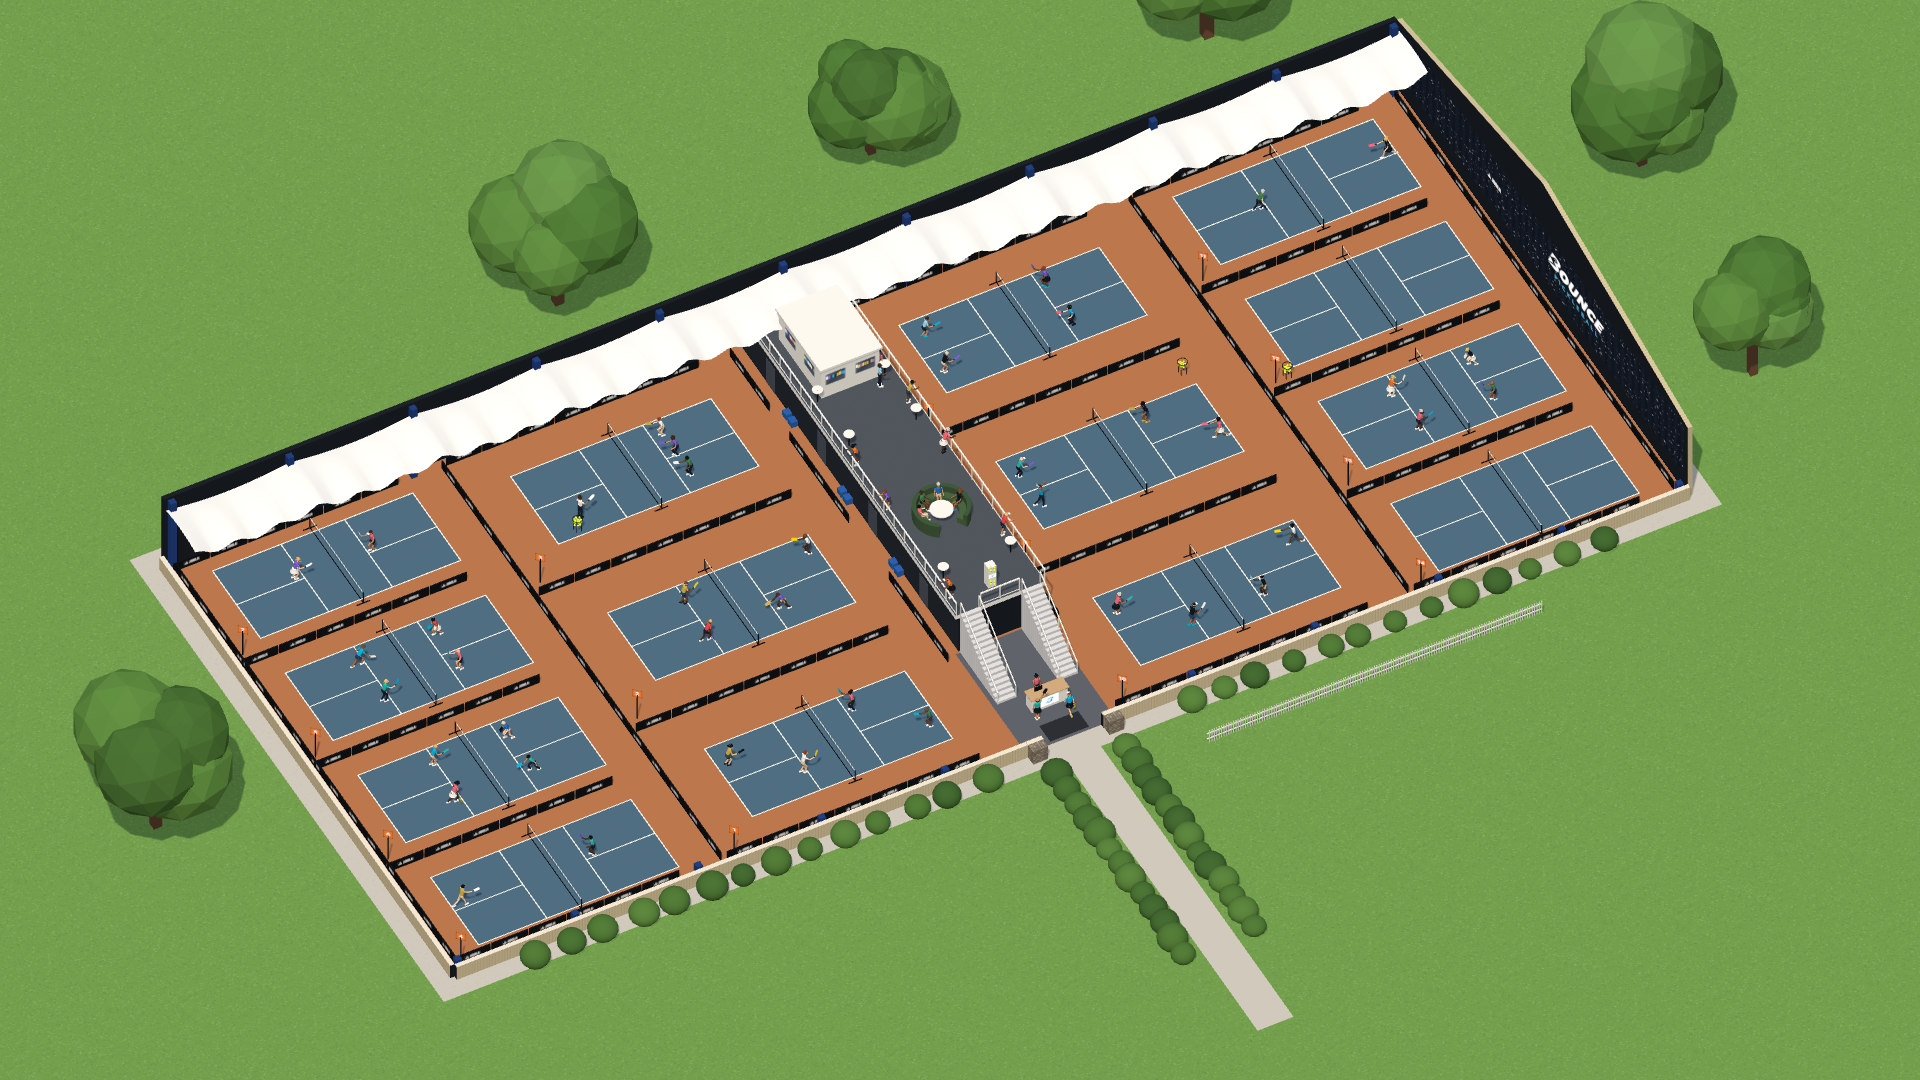
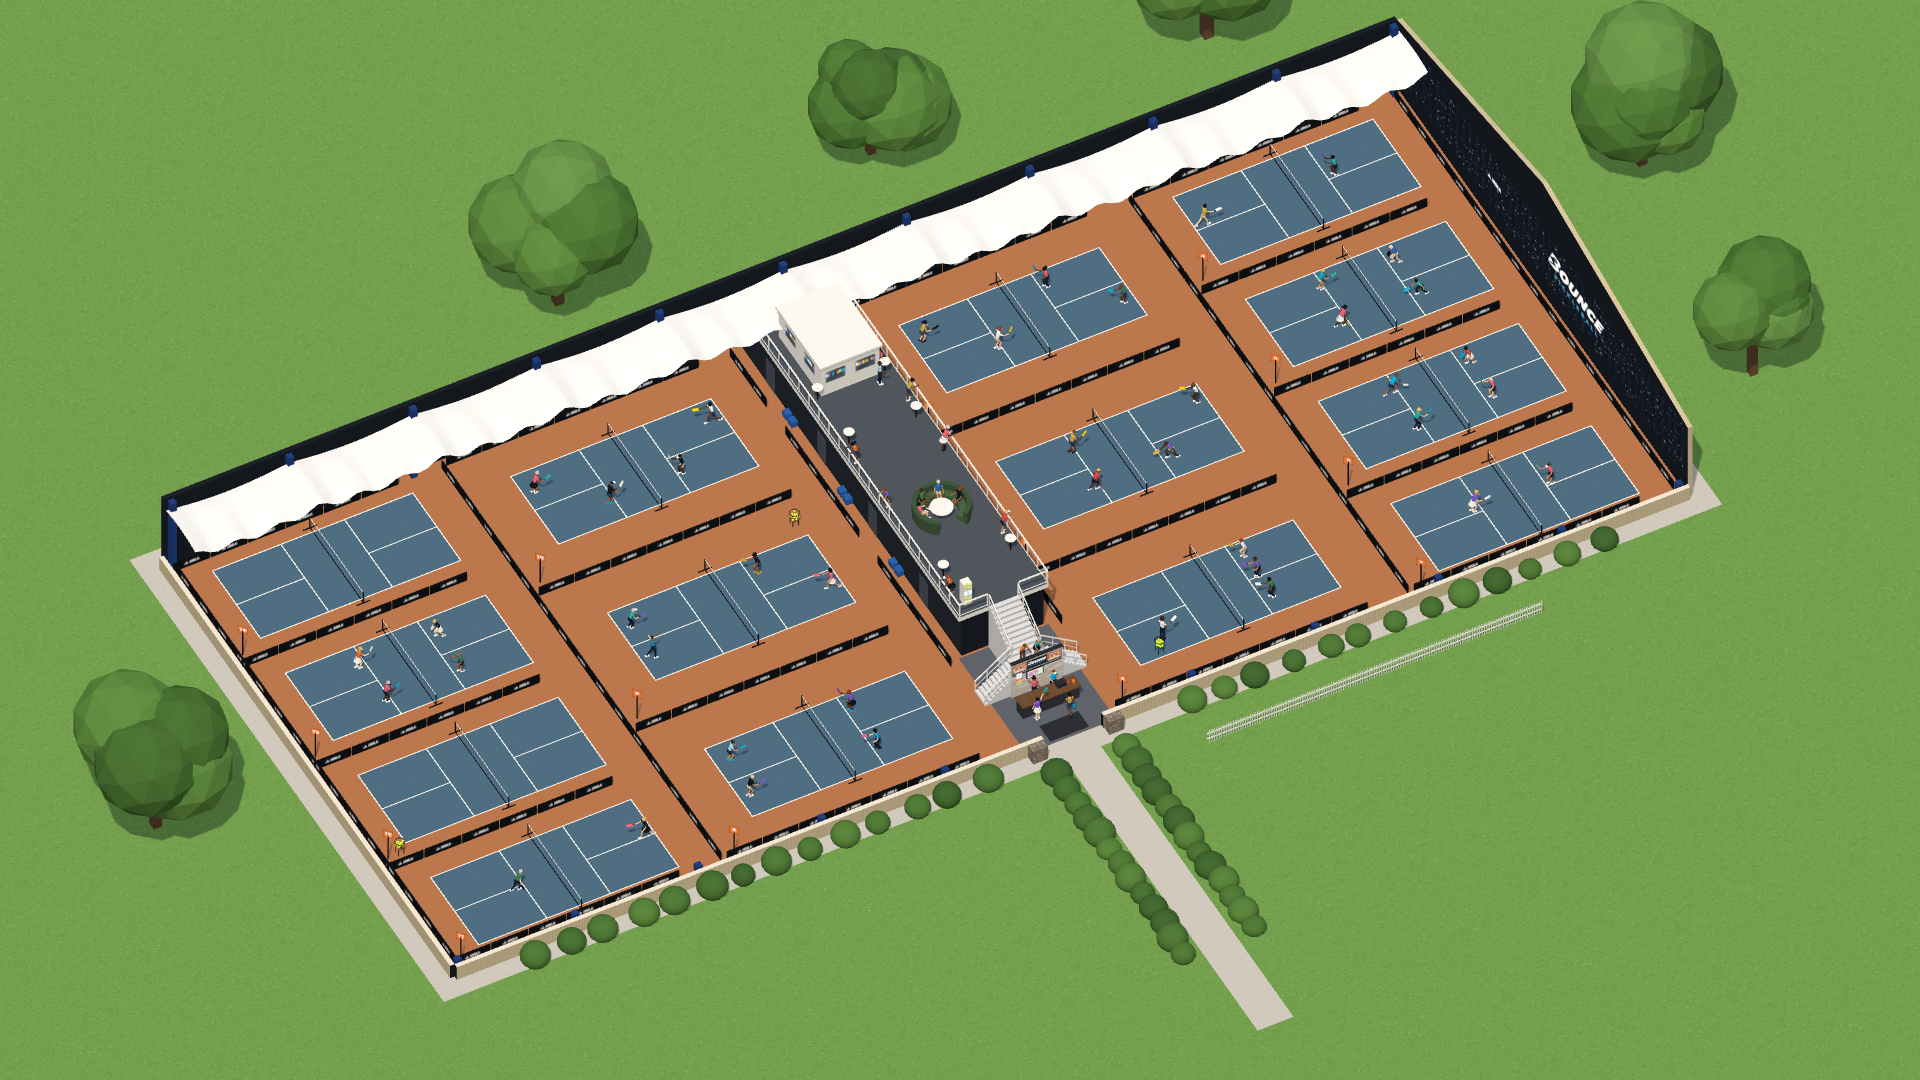
Bounce Machine: real stair layout, front desk and corrected orientation
Side flights rise inward from left and right to a landing behind the
desk, then 10 steps climb the middle to the mezzanine. The desk area is
modeled on the club's photos (wood-top counter, shiplap wall, TV, the
'COURTS 8 to 14 / 1 to 7' check-in sign). The building is flipped so
courts 1-7 sit to the right of the desk, as the sign says.

Claude-Session: https://claude.ai/code/session_01F21iHQWyUqJ7mhzLhEKr8b

diff --git a/bounce-machine/src/world.js b/bounce-machine/src/world.js
@@ -6,16 +6,20 @@ import { mergeGeometries } from 'three/addons/utils/BufferGeometryUtils.js';
 import * as T from './textures.js';
 
 export const W = 37, L = 82.6, EAVE = 6.0, RIDGE = 9.6;
+// Facing the front desk from the main doors: courts 1-7 are to the right ("WEST"), 8-14 to the left ("EAST"),
+// exactly as the sign over the desk says.
 export const ROWS = [
-  { z0: 0, z1: 18.3, courts: [11, 12, 13, 14], premium: false },
-  { z0: 18.3, z1: 38.3, courts: [8, 9, 10], premium: true },
-  { z0: 44.3, z1: 64.3, courts: [3, 2, 1], premium: true },
-  { z0: 64.3, z1: 82.6, courts: [7, 5, 6, 4], premium: false },
+  { z0: 0, z1: 18.3, courts: [4, 6, 5, 7], premium: false },
+  { z0: 18.3, z1: 38.3, courts: [1, 2, 3], premium: true },
+  { z0: 44.3, z1: 64.3, courts: [10, 9, 8], premium: true },
+  { z0: 64.3, z1: 82.6, courts: [14, 13, 12, 11], premium: false },
 ];
-export const MEZ = { z0: 38.3, z1: 44.3, x0: 0.3, x1: 28.0, y: 3.4, t: 0.35 };
+export const MEZ = { z0: 38.3, z1: 44.3, x0: 0.3, x1: W - 8.6, y: 3.6, t: 0.35 };
 export const DOOR = { z0: 39.3, z1: 43.3, h: 3.0, zc: 41.3 };
-export const DESK = { x: W - 3.1, z: 41.3 };
-export const STAIRS = [{ z0: 38.6, z1: 39.9 }, { z0: 42.7, z1: 44.0 }]; // bottom at x = W-4.3, top at MEZ.x1
+export const DESK = { x: W - 2.95, z: 41.3 };
+// Stairs: two side flights rise inward (along z) behind the desk wall, meet at a landing,
+// then one central flight of 10 steps climbs (toward -x) to the mezzanine.
+export const STAIR = { xFront: W - 4.5, xBack: W - 5.8, landY: 1.8, zl0: 40.3, zl1: 42.3, run: 0.24, n: 10, cRun: 0.28 };
 export const COURTS = {};
 ROWS.forEach(r => {
   const n = r.courts.length, bw = W / n;
@@ -281,29 +285,62 @@ export async function buildWorld(scene, A) {
   TX.rail.repeat.set(14, 1.5);
   railing(mz.x0, mz.z0 + 0.05, mz.x1, mz.z0 + 0.05, mz.y, G.interior);
   railing(mz.x0, mz.z1 - 0.05, mz.x1, mz.z1 - 0.05, mz.y, G.interior);
-  railing(mz.x1 - 0.05, STAIRS[0].z1 + 0.1, mz.x1 - 0.05, STAIRS[1].z0 - 0.1, mz.y, G.interior);
-  // two staircases behind the front desk, climbing from the lobby to the mezzanine
-  const nSteps = 17, rise = mz.y / nSteps, xb = W - 4.3, run = (xb - mz.x1) / nSteps;
-  const stepMat = lam('#D9DADC');
-  for (const s of STAIRS) {
-    const geos = [];
-    for (let i = 0; i < nSteps; i++) { const top = (i + 1) * rise; geos.push(boxGeo(run + 0.01, top, s.z1 - s.z0, xb - (i + 0.5) * run, top / 2, (s.z0 + s.z1) / 2)); }
-    G.interior.add(shade(new THREE.Mesh(mergeGeometries(geos), stepMat)));
-    for (const zr of [s.z0 + 0.04, s.z1 - 0.04]) {
-      const g = new THREE.Group();
-      beam([xb, 1.0, zr], [mz.x1, mz.y + 1.0, zr], 0.07, M.white, g);
-      for (let i = 0; i <= 4; i++) { const u = i / 4; box(0.05, 1.0, 0.05, M.white, xb - u * (xb - mz.x1), u * mz.y + 0.5, zr, g); }
-      G.interior.add(g);
-    }
+  railing(mz.x1 - 0.05, mz.z0 + 0.1, mz.x1 - 0.05, STAIR.zl0 - 0.05, mz.y, G.interior);
+  railing(mz.x1 - 0.05, STAIR.zl1 + 0.05, mz.x1 - 0.05, mz.z1 - 0.1, mz.y, G.interior);
+  // ---- the staircase: side flights rise inward from left and right, meet behind the desk, last 10 steps go up the middle
+  const S = STAIR, stepMat = lam('#D9DADC'), rise = S.landY / S.n, cRise = (mz.y - S.landY) / S.n;
+  const sGeos = [];
+  for (let i = 0; i < S.n; i++) {
+    const top = (i + 1) * rise;
+    sGeos.push(boxGeo(S.xFront - S.xBack, top, S.run + 0.01, (S.xFront + S.xBack) / 2, top / 2, S.zl0 - S.n * S.run + (i + 0.5) * S.run));
+    sGeos.push(boxGeo(S.xFront - S.xBack, top, S.run + 0.01, (S.xFront + S.xBack) / 2, top / 2, S.zl1 + S.n * S.run - (i + 0.5) * S.run));
   }
-  // front desk straight inside the main doors
+  sGeos.push(boxGeo(S.xFront - S.xBack, S.landY, S.zl1 - S.zl0, (S.xFront + S.xBack) / 2, S.landY / 2, (S.zl0 + S.zl1) / 2));
+  for (let i = 0; i < S.n; i++) {
+    const top = S.landY + (i + 1) * cRise;
+    sGeos.push(boxGeo(S.cRun + 0.01, top, S.zl1 - S.zl0, S.xBack - (i + 0.5) * S.cRun, top / 2, (S.zl0 + S.zl1) / 2));
+  }
+  G.interior.add(shade(new THREE.Mesh(mergeGeometries(sGeos), stepMat)));
+  G.stairPath = { // for the animation: bottom of each side flight, the landing, the top
+    left: [(S.xFront + S.xBack) / 2, 0, S.zl0 - S.n * S.run], right: [(S.xFront + S.xBack) / 2, 0, S.zl1 + S.n * S.run],
+    landing: [(S.xFront + S.xBack) / 2, S.landY, DOOR.zc], top: [mz.x1, mz.y, DOOR.zc],
+  };
+  const slopeRail = (a, b, parent = G.interior) => {
+    const g = new THREE.Group();
+    beam([a[0], a[1] + 1.0, a[2]], [b[0], b[1] + 1.0, b[2]], 0.07, M.white, g);
+    beam([a[0], a[1] + 0.5, a[2]], [b[0], b[1] + 0.5, b[2]], 0.035, M.white, g);
+    const n = Math.max(2, Math.round(Math.hypot(b[0] - a[0], b[2] - a[2]) / 0.8));
+    for (let i = 0; i <= n; i++) { const u = i / n; box(0.05, 1.0, 0.05, M.white, a[0] + (b[0] - a[0]) * u, a[1] + (b[1] - a[1]) * u + 0.5, a[2] + (b[2] - a[2]) * u, g); }
+    parent.add(g);
+  };
+  const zLb = S.zl0 - S.n * S.run, zRb = S.zl1 + S.n * S.run;
+  for (const x of [S.xFront - 0.04, S.xBack + 0.04]) {
+    slopeRail([x, 0, zLb], [x, S.landY, S.zl0]); slopeRail([x, 0, zRb], [x, S.landY, S.zl1]);
+  }
+  slopeRail([S.xBack, S.landY, S.zl0 + 0.04], [mz.x1, mz.y, S.zl0 + 0.04]); slopeRail([S.xBack, S.landY, S.zl1 - 0.04], [mz.x1, mz.y, S.zl1 - 0.04]);
+  // ---- the desk wall: whitewashed shiplap, TV, the check-in sign; its top is the landing's front wall
+  const shipTx = T.shiplap(); shipTx.repeat.set(0.52, 0.52);
+  const shipM = new THREE.MeshLambertMaterial({ map: shipTx });
+  const wallH = S.landY + 1.05, wz0 = S.zl0 - 0.7, wz1 = S.zl1 + 0.7;
+  box(0.14, wallH, wz1 - wz0, [shipM, shipM, lam('#2A2D31'), shipM, shipM, shipM], S.xFront + 0.07, wallH / 2, (wz0 + wz1) / 2, G.interior);
+  box(0.22, 0.08, wz1 - wz0 + 0.04, lam('#2A2D31'), S.xFront + 0.07, wallH + 0.04, (wz0 + wz1) / 2, G.interior);
+  const decal = (w, h, map, y, z) => { const m = new THREE.Mesh(new THREE.PlaneGeometry(w, h), basic({ map })); m.position.set(S.xFront + 0.15, y, z); m.rotation.y = Math.PI / 2; G.interior.add(m); return m; };
+  decal(3.3, 0.97, T.deskSign(A), wallH - 0.6, DOOR.zc);
+  box(0.06, 0.66, 1.12, M.black, S.xFront + 0.17, 1.55, DOOR.zc + 0.15, G.interior);
+  const tv = new THREE.Mesh(new THREE.PlaneGeometry(1.06, 0.6), basic({ map: T.tvScreen() })); tv.position.set(S.xFront + 0.205, 1.55, DOOR.zc + 0.15); tv.rotation.y = Math.PI / 2; G.interior.add(tv);
+  decal(0.36, 0.5, T.lobDinkSmash(), 1.08, wz1 - 0.5);
+  decal(0.36, 0.44, TX.deskMark, 1.56, wz1 - 0.5);
+  // ---- the front desk: dark front, chunky wood top
   const desk = new THREE.Group(); desk.position.set(DESK.x, 0, DESK.z);
-  box(0.75, 1.1, 2.4, M.white, 0, 0.55, 0, desk); box(0.95, 0.06, 2.55, lam('#C9A57A'), 0, 1.13, 0, desk);
-  const dm = new THREE.Mesh(new THREE.PlaneGeometry(1.2, 0.75), basic({ map: TX.deskMark })); dm.position.set(0.381, 0.58, 0); dm.rotation.y = Math.PI / 2; desk.add(dm);
-  box(0.06, 0.32, 0.5, M.black, -0.15, 1.33, 0.5, desk);
+  const woodTx = T.woodTop(); woodTx.repeat.set(0.5, 1);
+  box(0.8, 1.02, 3.8, lam('#34373C'), 0, 0.51, 0, desk);
+  box(1.0, 0.09, 3.95, new THREE.MeshLambertMaterial({ map: woodTx }), 0.02, 1.07, 0, desk);
+  box(0.42, 0.3, 0.6, lam('#2B2E33'), -0.1, 1.27, -0.9, desk);                       // laptop
+  const lamp = shade(new THREE.Mesh(new THREE.SphereGeometry(0.08, 12, 8), lam('#E23B2E', { emissive: '#7A1010' }))); lamp.position.set(-0.05, 1.2, -1.35); desk.add(lamp);
+  box(0.14, 0.24, 0.14, lam('#F08A24'), 0.1, 1.24, -1.65, desk);                     // pumpkin-orange planter
   G.interior.add(desk); G.desk = desk;
   // the BOUNCE ball kiosk at the top of the stairs
-  const kiosk = new THREE.Group(); kiosk.position.set(mz.x1 - 1.3, mz.y, DOOR.zc);
+  const kiosk = new THREE.Group(); kiosk.position.set(mz.x1 - 1.0, mz.y, S.zl1 + 1.0);
   box(0.55, 1.75, 0.55, M.white, 0, 0.875, 0, kiosk);
   const km = new THREE.Mesh(new THREE.PlaneGeometry(0.5, 0.32), basic({ map: TX.deskMark })); km.position.set(0.28, 1.0, 0); km.rotation.y = Math.PI / 2; kiosk.add(km);
   for (let i = 0; i < 8; i++) { const b = shade(new THREE.Mesh(new THREE.SphereGeometry(0.075, 12, 8), M.ball)); b.position.set(0.3, 0.25 + (i % 4) * 0.12 + (i > 3 ? 1.2 : 0), -0.12 + (i % 2) * 0.24); kiosk.add(b); }

diff --git a/bounce-machine/src/textures.js b/bounce-machine/src/textures.js
@@ -178,3 +178,76 @@ export function glass() {
   g.beginPath(); g.moveTo(40, 0); g.lineTo(90, 0); g.lineTo(10, 256); g.lineTo(-40, 256); g.fill();
   return tex(c);
 }
+
+// ------------------------------------------------------------------ the front desk (from the club's own photos)
+export function shiplap() {
+  const c = canvas(512, 512), g = c.getContext('2d'), R = rng(41);
+  const cols = ['#DCD5C8', '#E4DFD5', '#D3CBBC', '#E9E5DC', '#CFC6B6'];
+  for (let y = 0; y < 512; y += 40) {
+    let x = -R() * 300;
+    while (x < 512) {
+      const w = 260 + R() * 260;
+      g.fillStyle = cols[Math.floor(R() * cols.length)]; g.fillRect(x, y, w, 40);
+      for (let k = 0; k < 6; k++) { g.fillStyle = `rgba(120,98,76,${0.05 + R() * 0.06})`; g.fillRect(x, y + 4 + R() * 32, w, 1); }
+      g.fillStyle = 'rgba(70,60,50,0.35)'; g.fillRect(x + w - 2, y, 2, 40);
+      x += w;
+    }
+    g.fillStyle = 'rgba(60,52,44,0.45)'; g.fillRect(0, y + 38, 512, 2);
+  }
+  return tex(c, { repeat: [1, 1] });
+}
+export function woodTop() {
+  const c = canvas(512, 128), g = c.getContext('2d'), R = rng(43);
+  g.fillStyle = '#6E4C33'; g.fillRect(0, 0, 512, 128);
+  for (let i = 0; i < 70; i++) { g.fillStyle = `rgba(${R() < 0.5 ? '40,26,16' : '150,110,78'},${0.1 + R() * 0.15})`; g.fillRect(0, R() * 128, 512, 1 + R() * 2); }
+  return tex(c, { repeat: [1, 1] });
+}
+function arrowBar(g, x0, x1, y, dir, label, rust, cream) {
+  const h = 38, head = 46;
+  g.fillStyle = cream; g.beginPath();
+  if (dir < 0) { g.moveTo(x0, y); g.lineTo(x0 + head, y - h * 0.9); g.lineTo(x0 + head, y - h / 2); g.lineTo(x1, y - h / 2); g.lineTo(x1, y + h / 2); g.lineTo(x0 + head, y + h / 2); g.lineTo(x0 + head, y + h * 0.9); }
+  else { g.moveTo(x1, y); g.lineTo(x1 - head, y - h * 0.9); g.lineTo(x1 - head, y - h / 2); g.lineTo(x0, y - h / 2); g.lineTo(x0, y + h / 2); g.lineTo(x1 - head, y + h / 2); g.lineTo(x1 - head, y + h * 0.9); }
+  g.closePath(); g.fill();
+  g.fillStyle = rust; g.font = '700 30px "DejaVu Serif"'; g.textAlign = 'center'; g.textBaseline = 'middle';
+  g.fillText(label, (x0 + x1) / 2 + (dir < 0 ? head / 2 : -head / 2), y + 1);
+}
+export function deskSign(A) {
+  const c = canvas(1600, 470), g = c.getContext('2d');
+  const rust = '#B35E2C', blk = '#232629', cream = '#F3E7D3';
+  g.fillStyle = '#A3A8AD'; g.fillRect(0, 0, 1600, 470);
+  g.fillStyle = blk; g.fillRect(10, 10, 1580, 450);
+  for (const [x, top, num, dir, lab] of [[22, 'COURTS', '8 to 14', -1, 'EAST'], [1138, 'COURTS', '1 to 7', 1, 'WEST']]) {
+    g.fillStyle = rust; g.fillRect(x, 22, 440, 300);
+    g.strokeStyle = cream; g.lineWidth = 4; g.strokeRect(x + 12, 34, 416, 276);
+    g.fillStyle = cream; g.textAlign = 'center'; g.textBaseline = 'alphabetic';
+    g.font = '700 70px "DejaVu Serif"'; g.fillText(top, x + 220, 112);
+    g.font = '700 104px "DejaVu Serif"'; g.fillText(num, x + 220, 222);
+    arrowBar(g, x + 40, x + 400, 272, dir, lab, rust, cream);
+  }
+  const lh = 230, lw = lh * 1879 / 575;
+  const sc = Math.min(1, 600 / lw);
+  g.drawImage(A.logo, 42, 38, 1879, 575, 800 - lw * sc / 2, 172 - lh * sc / 2, lw * sc, lh * sc);
+  g.fillStyle = cream; g.font = 'italic 700 50px "DejaVu Serif"'; g.textAlign = 'center'; g.textBaseline = 'middle';
+  const msg = 'PLEASE CHECK IN HERE BEFORE GOING TO YOUR COURTS', mw = g.measureText(msg).width, k = Math.min(1, 1480 / mw);
+  g.save(); g.translate(800, 392); g.scale(k, 1); g.fillText(msg, 0, 0); g.restore();
+  return tex(c);
+}
+export function tvScreen() {
+  const c = canvas(320, 180), g = c.getContext('2d'), R = rng(47);
+  g.fillStyle = '#0B0C0E'; g.fillRect(0, 0, 320, 180);
+  g.fillStyle = '#F4F4F2'; g.fillRect(8, 8, 304, 164);
+  const cols = ['#F08A24', '#E23B2E', '#58C34B', '#C33BD6', '#2A5BD7', '#F5B83D'];
+  for (let col = 0; col < 14; col++) for (let row = 0; row < 6; row++) if (R() < 0.7) {
+    g.fillStyle = cols[Math.floor(R() * cols.length)]; g.fillRect(24 + col * 15, 30 + row * 20, 14, 19);
+  }
+  g.fillStyle = '#CFD3D8'; for (let i = 0; i < 9; i++) g.fillRect(250, 26 + i * 14, 52, 5);
+  return tex(c);
+}
+export function lobDinkSmash() {
+  const c = canvas(160, 220), g = c.getContext('2d');
+  [['LOB', '#E6534A'], ['DINK', '#F3A53A'], ['SMASH', '#8BC34A']].forEach(([t, col], i) => {
+    g.fillStyle = col; g.fillRect(0, i * 73, 160, 74);
+    g.fillStyle = '#FFFFFF'; g.font = '700 40px Jost'; g.textAlign = 'center'; g.textBaseline = 'middle'; g.fillText(t, 80, i * 73 + 38);
+  });
+  return tex(c);
+}

diff --git a/bounce-machine/src/main.js b/bounce-machine/src/main.js
@@ -1,6 +1,6 @@
 // The Bounce Machine — scene setup. Views: #exterior, #cutaway, #plan
 import * as THREE from 'three';
-import { buildWorld, W, L, COURTS, MEZ, DOOR, DESK, STAIRS } from './world.js';
+import { buildWorld, W, L, COURTS, MEZ, DOOR, DESK, STAIR } from './world.js';
 import { makePerson, setPose, POSES, CAST, randomSpec } from './people.js';
 import * as T from './textures.js';
 
@@ -71,7 +71,10 @@ function populate() {
   place(randomSpec(seed++), 'talk', 8.5, my, MEZ.z0 + 0.9, 40, { paddle: false });
   place(randomSpec(seed++), 'stand', 8.0, my, DOOR.zc + 1.4, -90, { paddle: false });
   // lobby: staff at the front desk, members arriving
-  place(randomSpec(seed++), 'talk', DESK.x - 0.75, 0, DESK.z + 0.3, 90, { paddle: false });
+  place(randomSpec(seed++), 'wave', DESK.x - 0.8, 0, DESK.z + 0.5, 90, { paddle: false });
+  place(randomSpec(seed++), 'talk', DESK.x - 0.8, 0, DESK.z - 0.8, 90, { paddle: false });
+  place(randomSpec(seed++), 'rail', STAIR.xBack + 0.55, STAIR.landY, DOOR.zc - 0.45, 90, { paddle: false });
+  place(randomSpec(seed++), 'rail', STAIR.xBack + 0.55, STAIR.landY, DOOR.zc + 0.5, 90, { paddle: false });
   place(randomSpec(seed++), 'walk', W - 1.7, 0, DOOR.zc - 0.8, -90);
   place(randomSpec(seed++), 'wave', W - 2.2, 0, DOOR.zc + 1.1, -90);
 }
@@ -79,7 +82,8 @@ function populate() {
 const VIEWS = {
   exterior: () => frame([W + 1, 3.2, DOOR.zc - 3], [1.0, 0.42, 0.55], 24),
   cutaway: () => frame([W / 2 + 1.5, 0, L / 2 - 1.5], [0.95, 1.18, 0.5], 64),
-  close: () => frame([24, 2.6, 46], [0.9, 0.75, 0.75], 15),
+  close: () => frame([27.5, 2.4, 40.5], [0.9, 0.75, -0.62], 15),
+  desk: () => frame([W - 4.6, 2.1, DOOR.zc], [1, 0.22, 0.12], 6.2),
   plan: () => frame([W / 2, 0, L / 2], [0, 1, 0.00001], 56, [-1, 0, 0]),
 };
 function applyMode(mode) {
@@ -109,7 +113,7 @@ function overlay(mode) {
   for (const c of Object.values(COURTS)) label(String(c.num), [c.cx, 0, c.cz], { size: c.premium ? 64 : 54 });
   label('MEZZANINE', [MEZ.x1 / 2 + 2, MEZ.y + 1, DOOR.zc], { size: 30, ls: 6, color: '#9FE3F7' });
   label('FRONT DESK', [DESK.x - 0.2, 1, DESK.z], { size: 20, ls: 2, color: '#FFE08A', stroke: 6 });
-  label('STAIRS', [W - 6.6, 1, STAIRS[0].z0 - 1.5], { size: 18, ls: 2, color: '#FFE08A', stroke: 6 });
+  label('STAIRS', [STAIR.xBack - 1.4, 2, DOOR.zc], { size: 18, ls: 2, color: '#FFE08A', stroke: 6 });
   label('MAIN DOORS ▼', [W + 3.2, 1, DOOR.zc], { size: 22, ls: 2, color: '#FFFFFF', stroke: 6 });
   label('BOUNCE BANNER', [2, 1, 0.8], { size: 18, ls: 3, color: '#9FE3F7', stroke: 6 });
   label('BOUNCE BANNER', [2, 1, L - 0.8], { size: 18, ls: 3, color: '#9FE3F7', stroke: 6 });

diff --git a/bounce-machine/README.md b/bounce-machine/README.md
@@ -7,16 +7,18 @@ A chain-reaction spot set inside a cutaway of **Bounce Pickleball Malvern**, bui
 ## Layout (from the client's input)
 
 ```
- ┌──────────── BOUNCE starfield banner (end wall) ────────────┐
- │    [11]      [12]      [13]      [14]                       │
- │        [8]         [9]         [10]        ← premium bay    │
- ├──────────── MEZZANINE (upper level) ───────────────────────┤
- │  ground floor:  ▲ stairs   [ FRONT DESK ]   stairs ▲        │ ◄── MAIN DOORS
- ├─────────────────────────────────────────────────────────────┤
- │        [3]         [2]         [1]         ← premium bay    │
- │    [7]       [5]       [6]       [4]                        │
- └──────────── BOUNCE starfield banner (end wall) ────────────┘
+ ┌──────── BOUNCE starfield banner (end wall) ────────┐
+ │    [11]     [12]     [13]     [14]                  │   courts 8-14: "EAST"
+ │        [8]       [9]       [10]     ← premium bay   │
+ ├──────── MEZZANINE (lounge, pro shop, high-tops) ────┤
+ │   lobby: side stairs rise inward → landing →        │
+ │          10 steps up the middle; FRONT DESK in front│ ◄── MAIN DOORS
+ ├──────────────────────────────────────────────────────┤
+ │        [3]       [2]       [1]      ← premium bay   │   courts 1-7: "WEST"
+ │    [7]      [5]      [6]      [4]                   │
+ └──────── BOUNCE starfield banner (end wall) ────────┘
 ```
+Facing the desk from the main doors, courts 1–7 are on the right and 8–14 on the left, matching the check-in sign over the desk.
 
 ## Files
 
@@ -25,12 +27,12 @@ A chain-reaction spot set inside a cutaway of **Bounce Pickleball Malvern**, bui
 | `src/world.js` | The building at real scale (meters), using the layout above. |
 | `src/people.js` | Jointed 3D players, plus a pose library. |
 | `src/textures.js` | Canvas-drawn textures: the starfield banner, JOOLA panels, corrugated walls, signage. |
-| `src/main.js` | Lights, cameras, the populated club, and the views `#exterior`, `#cutaway`, `#close` and `#plan`. |
+| `src/main.js` | Lights, cameras, the populated club, and the views `#exterior`, `#cutaway`, `#close`, `#desk` and `#plan`. |
 | `render.js` | Serves the folder locally and renders stills or video with headless Chromium (SwiftShader WebGL). |
 
 ```bash
 npm install
-node render.js stills review cutaway close exterior plan
+node render.js stills review cutaway close desk exterior plan
 ```
 
 Brand assets come from bouncepb.com: the Bounce logo and mark, and the JOOLA logo card from the sponsors page. The fonts are Jost (SIL Open Font License).
